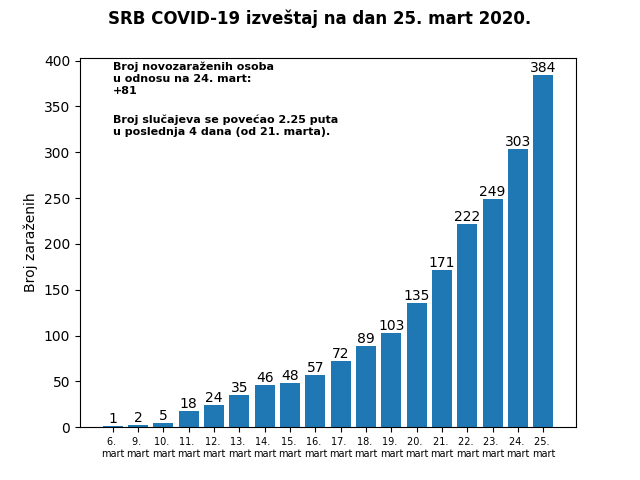
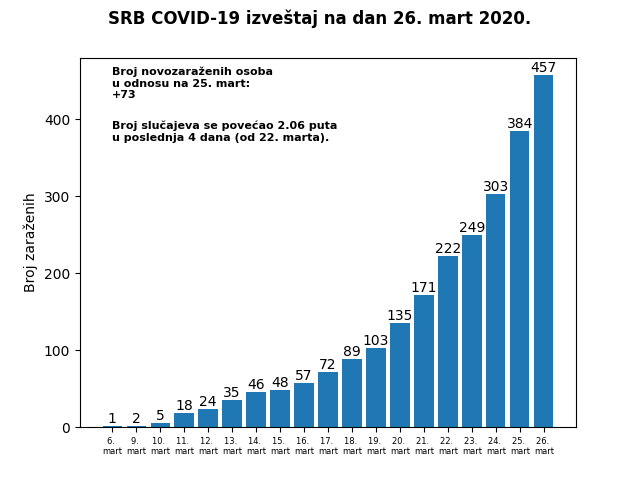
Refactored code

diff --git a/main.py b/main.py
@@ -171,13 +171,13 @@ if "Информације" in tts_content.find('h1', class_='col-xs-12').text:
                 bar = plt.bar(range(len(data)), list(data.values()),
                               align='center')
                 plt.xticks(range(len(data)), list(data.keys()))
-                plt.tick_params(axis='x', which='major', labelsize=7)
+                plt.tick_params(axis='x', which='major', labelsize=6)
                 plt.ylabel('Broj zaraženih')
                 plt.suptitle(f'SRB COVID-19 izveštaj na dan {day}.'
                              f' mart 2020.', fontsize=12,
                              fontweight='bold')
                 # TODO: Fix text_top_h value generation
-                text_top_h = int(cases) - 20
+                text_top_h = int(cases) - 30
                 plt.text(0, text_top_h, f'Broj novozaraženih osoba \nu '
                                         f'odnosu na {int(day)-1}. mart:'
                                         f'\n+{cases - last_value}',
@@ -200,7 +200,7 @@ if "Информације" in tts_content.find('h1', class_='col-xs-12').text:
 
                 double_coeff = determine_coeff_dict["coefficient"]
                 # TODO: Fix text_bottom_h value generation
-                text_bottom_h = text_top_h - 45
+                text_bottom_h = text_top_h - 55
                 plt.text(0, text_bottom_h,
                          f"Broj slučajeva se povećao "
                          f"{double_coeff} puta \nu poslednja "
